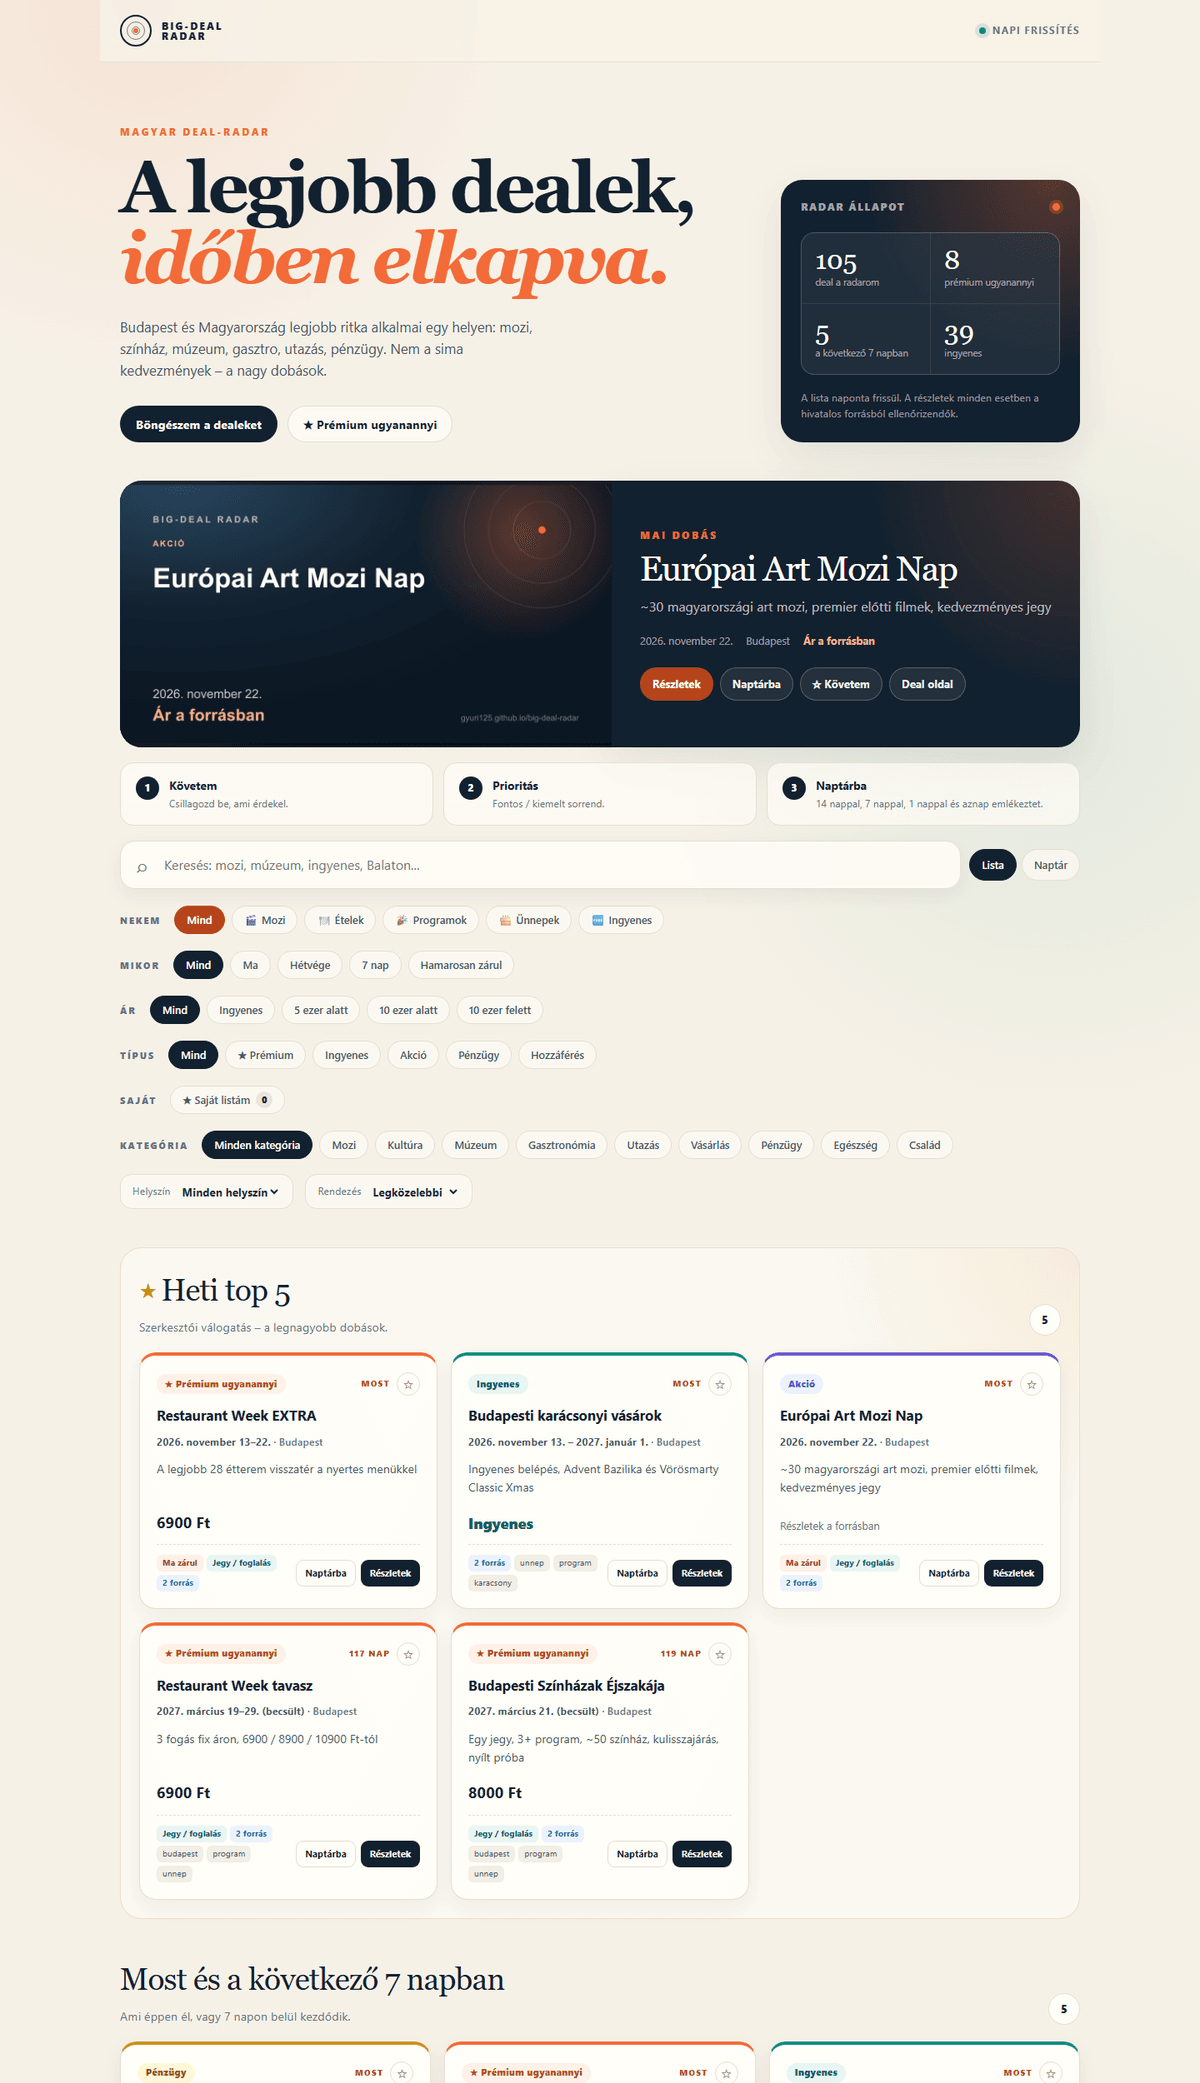
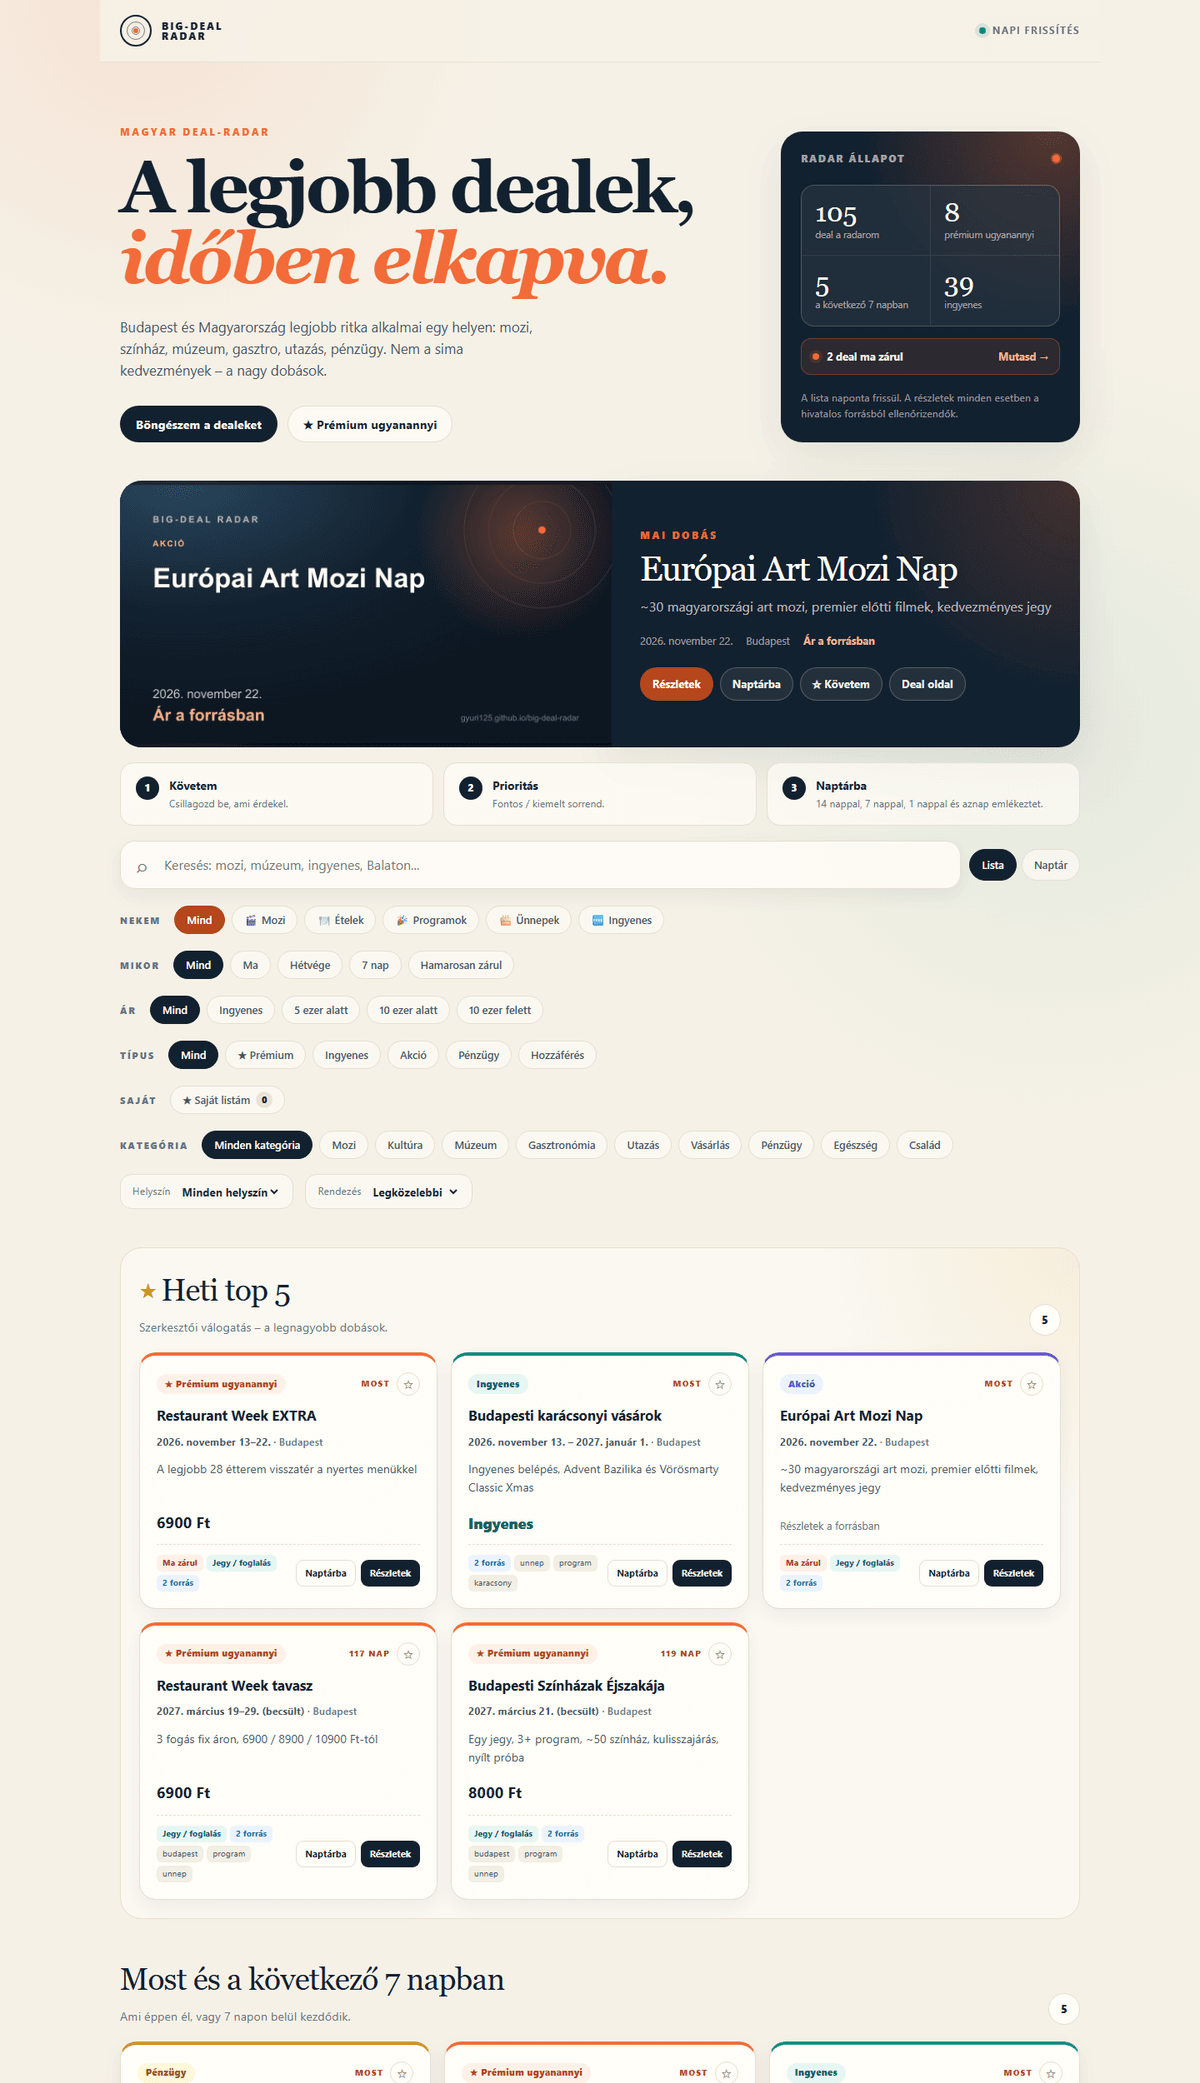
feat: hero sürgősségi sáv és végleges README előnézet

Changed region(s): [[0.6475, 0.0624, 0.925, 0.1872]]

diff --git a/src/site/main.ts b/src/site/main.ts
@@ -387,6 +387,11 @@ function priceMarkup(deal: EnrichedDeal): string {
   return '<span class="price-muted">Részletek a forrásban</span>';
 }
 
+function daysUntilEnd(deal: EnrichedDeal): number | null {
+  const end = deal.effective?.end ?? deal.effective?.start ?? null;
+  return end ? diffDays(now, end) : null;
+}
+
 function cardMarkup(deal: EnrichedDeal): string {
   const watched = isWatched(deal.id);
   const priority = priorityOf(deal.id);
@@ -397,8 +402,7 @@ function cardMarkup(deal: EnrichedDeal): string {
     ? '<span class="tag tag-booking">Jegy / foglalás</span>'
     : '';
   const sourceTag = `<span class="tag tag-source">${deal.sources.length} forrás</span>`;
-  const endDate = deal.effective?.end ?? deal.effective?.start ?? null;
-  const endDays = endDate ? diffDays(now, endDate) : null;
+  const endDays = daysUntilEnd(deal);
   const endingTag =
     endDays !== null && endDays >= 0 && endDays <= 3
       ? `<span class="tag tag-ending">${endDays === 0 ? 'Ma zárul' : `${endDays} nap múlva zárul`}</span>`
@@ -469,10 +473,8 @@ function matchesFilters(deal: EnrichedDeal): boolean {
     if (!(deal.status === 'live' || deal.days === 0)) return false;
   }
   if (state.time === 'ending') {
-    if (!deal.effective) return false;
-    const end = deal.effective.end ?? deal.effective.start;
-    const daysLeft = diffDays(now, end);
-    if (daysLeft < 0 || daysLeft > 3) return false;
+    const daysLeft = daysUntilEnd(deal);
+    if (daysLeft === null || daysLeft < 0 || daysLeft > 3) return false;
   }
   if (state.time === 'next7') {
     if (deal.days === null || deal.days < 0 || deal.days > 7) return false;
@@ -824,6 +826,35 @@ function renderStats(): void {
     <div class="stat"><strong>${flat}</strong><span>prémium ugyanannyi</span></div>
     <div class="stat"><strong>${upcoming}</strong><span>a következő 7 napban</span></div>
     <div class="stat"><strong>${free}</strong><span>ingyenes</span></div>
+  `;
+}
+
+function renderHeroUrgent(): void {
+  const element = document.querySelector<HTMLElement>('#hero-urgent');
+  if (!element) return;
+
+  const ending = enriched.filter((deal) => {
+    const days = daysUntilEnd(deal);
+    return days !== null && days >= 0 && days <= 3;
+  });
+
+  if (ending.length === 0) {
+    element.innerHTML = '';
+    return;
+  }
+
+  const today = ending.filter((deal) => daysUntilEnd(deal) === 0).length;
+  const label =
+    today === ending.length
+      ? `${today} deal ma zárul`
+      : `${ending.length} deal hamarosan zárul`;
+
+  element.innerHTML = `
+    <button class="hero-urgent" type="button" data-action="show-ending">
+      <span class="urgent-dot" aria-hidden="true"></span>
+      <strong>${label}</strong>
+      <span>Mutasd →</span>
+    </button>
   `;
 }
 
@@ -1251,6 +1282,7 @@ function renderShell(): void {
           <span class="pulse"></span>
         </div>
         <div class="hero-stats" id="stats"></div>
+        <div id="hero-urgent"></div>
         <p class="hero-note">
           A lista naponta frissül. A részletek minden esetben a hivatalos forrásból ellenőrizendők.
         </p>
@@ -1918,6 +1950,31 @@ function handleAction(action: string, target: HTMLElement): void {
     return;
   }
 
+  if (action === 'show-ending') {
+    state.focus = 'all';
+    state.type = 'all';
+    state.category = 'all';
+    state.location = 'all';
+    state.budget = 'all';
+    state.query = '';
+    state.watchlistOnly = false;
+    state.time = 'ending';
+    state.visible = 24;
+
+    const search = document.querySelector<HTMLInputElement>('#search');
+    if (search) search.value = '';
+
+    const locationSelect = document.querySelector<HTMLSelectElement>('#location-filter');
+    if (locationSelect) locationSelect.value = 'all';
+
+    updateFilterButtons();
+    renderResults();
+    document
+      .querySelector('#results')
+      ?.scrollIntoView({ behavior: 'smooth', block: 'start' });
+    return;
+  }
+
   if (action === 'to-top') {
     window.scrollTo({ top: 0, behavior: 'smooth' });
     return;
@@ -2233,6 +2290,7 @@ async function init(): Promise<void> {
 
   renderDailyDeal();
   renderStats();
+  renderHeroUrgent();
   updateFilterButtons();
   renderResults();
   await fetchStatus();

diff --git a/src/site/style.css b/src/site/style.css
@@ -348,6 +348,48 @@ a {
   color: rgba(246, 241, 231, 0.58);
 }
 
+.hero-urgent {
+  display: flex;
+  align-items: center;
+  gap: 9px;
+  width: 100%;
+  margin-top: 14px;
+  padding: 11px 13px;
+  border: 1px solid rgba(242, 107, 56, 0.4);
+  border-radius: 12px;
+  background: rgba(242, 107, 56, 0.12);
+  color: var(--cream);
+  font-size: 0.8rem;
+  text-align: left;
+  cursor: pointer;
+  transition: background 160ms ease, border-color 160ms ease;
+}
+
+.hero-urgent:hover {
+  border-color: rgba(242, 107, 56, 0.7);
+  background: rgba(242, 107, 56, 0.2);
+}
+
+.hero-urgent strong {
+  font-weight: 700;
+}
+
+.hero-urgent span:last-child {
+  margin-left: auto;
+  color: #ffb38f;
+  font-weight: 700;
+  white-space: nowrap;
+}
+
+.urgent-dot {
+  width: 8px;
+  height: 8px;
+  flex: 0 0 auto;
+  border-radius: 50%;
+  background: var(--orange);
+  box-shadow: 0 0 0 4px rgba(242, 107, 56, 0.14);
+}
+
 .daily-deal {
   display: grid;
   grid-template-columns: minmax(0, 1.05fr) minmax(0, 1fr);

diff --git a/README.md b/README.md
@@ -57,7 +57,7 @@ Egy statikus, GitHub Pagesen futó **deal-radar**, ami:
 - **Mikor / Ár szűrők**: Ma, Hétvége, 7 nap, **Hamarosan zárul**, Ingyenes, 5 ezer alatt, 10 ezer alatt,
 - **gyorskeresés**: a `/` billentyű a keresőmezőre ugrik, az Escape törli a keresést,
 - **megosztható szűrők**: a keresés, a szűrők és a nézet az URL-ben maradnak,
-- **sürgősségi jelzés**: ha egy deal 3 napon belül zárul, a kártya jelzi,
+- **sürgősségi jelzés**: ha egy deal 3 napon belül zárul, a kártya és a hero panel is jelzi,
 - **akadálymentes**: skip link, fókuszálható eredmények, Lighthouse 100 accessibility,
 - **naptárnézet** havi bontásban, hónap-naptár letöltéssel,
 - **egyedi deal-oldalak** SEO-val, OG képpel, Event structured data-val, saját ICS letöltéssel és hasonló dealekkel,
